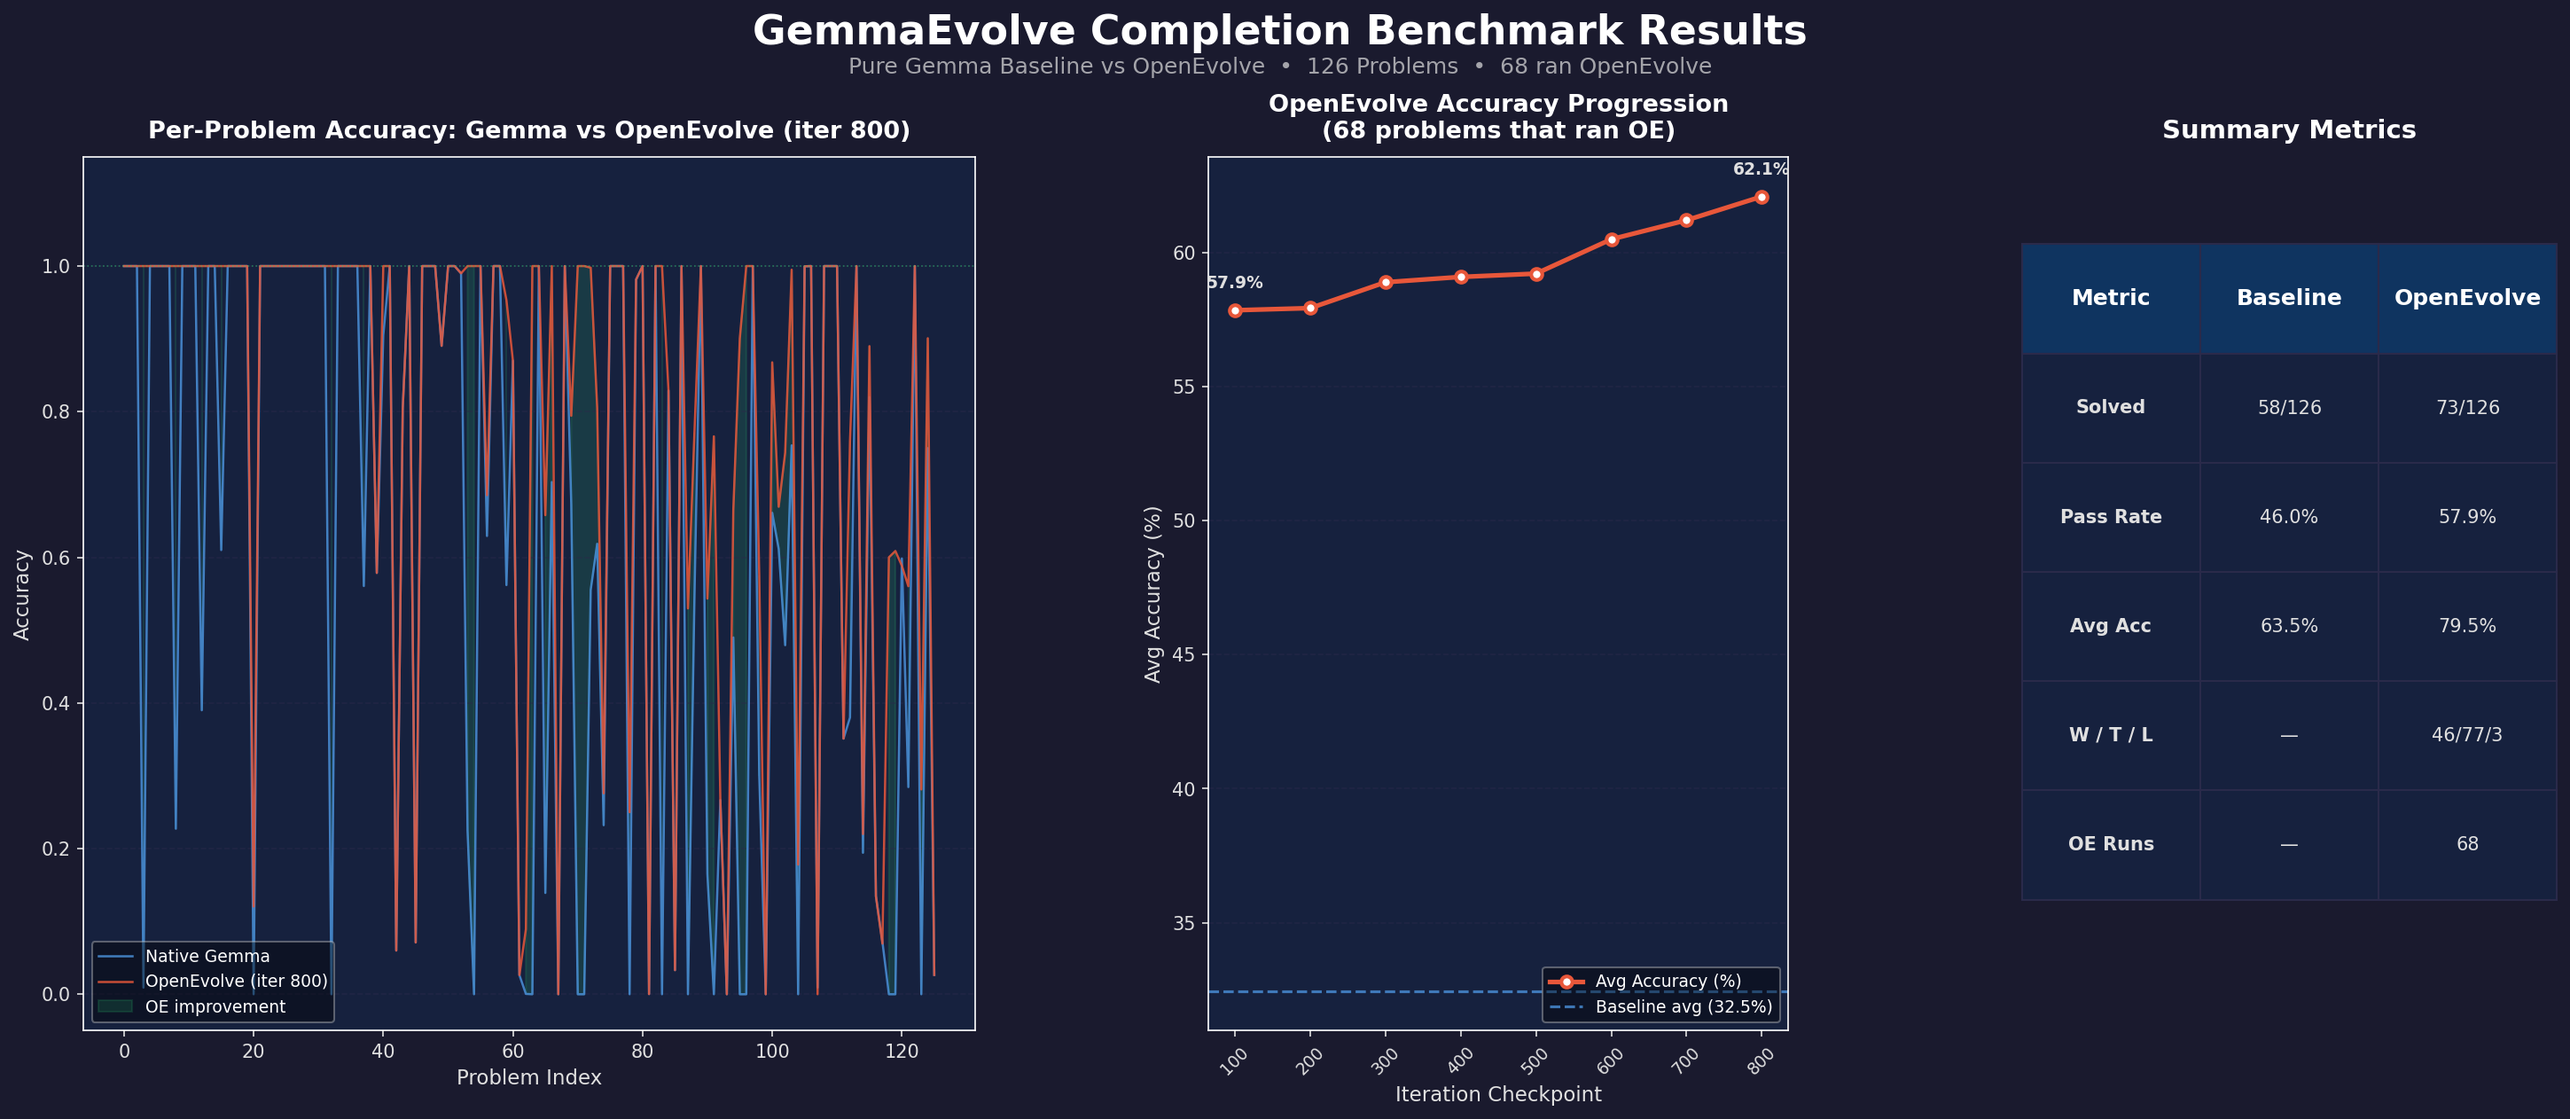
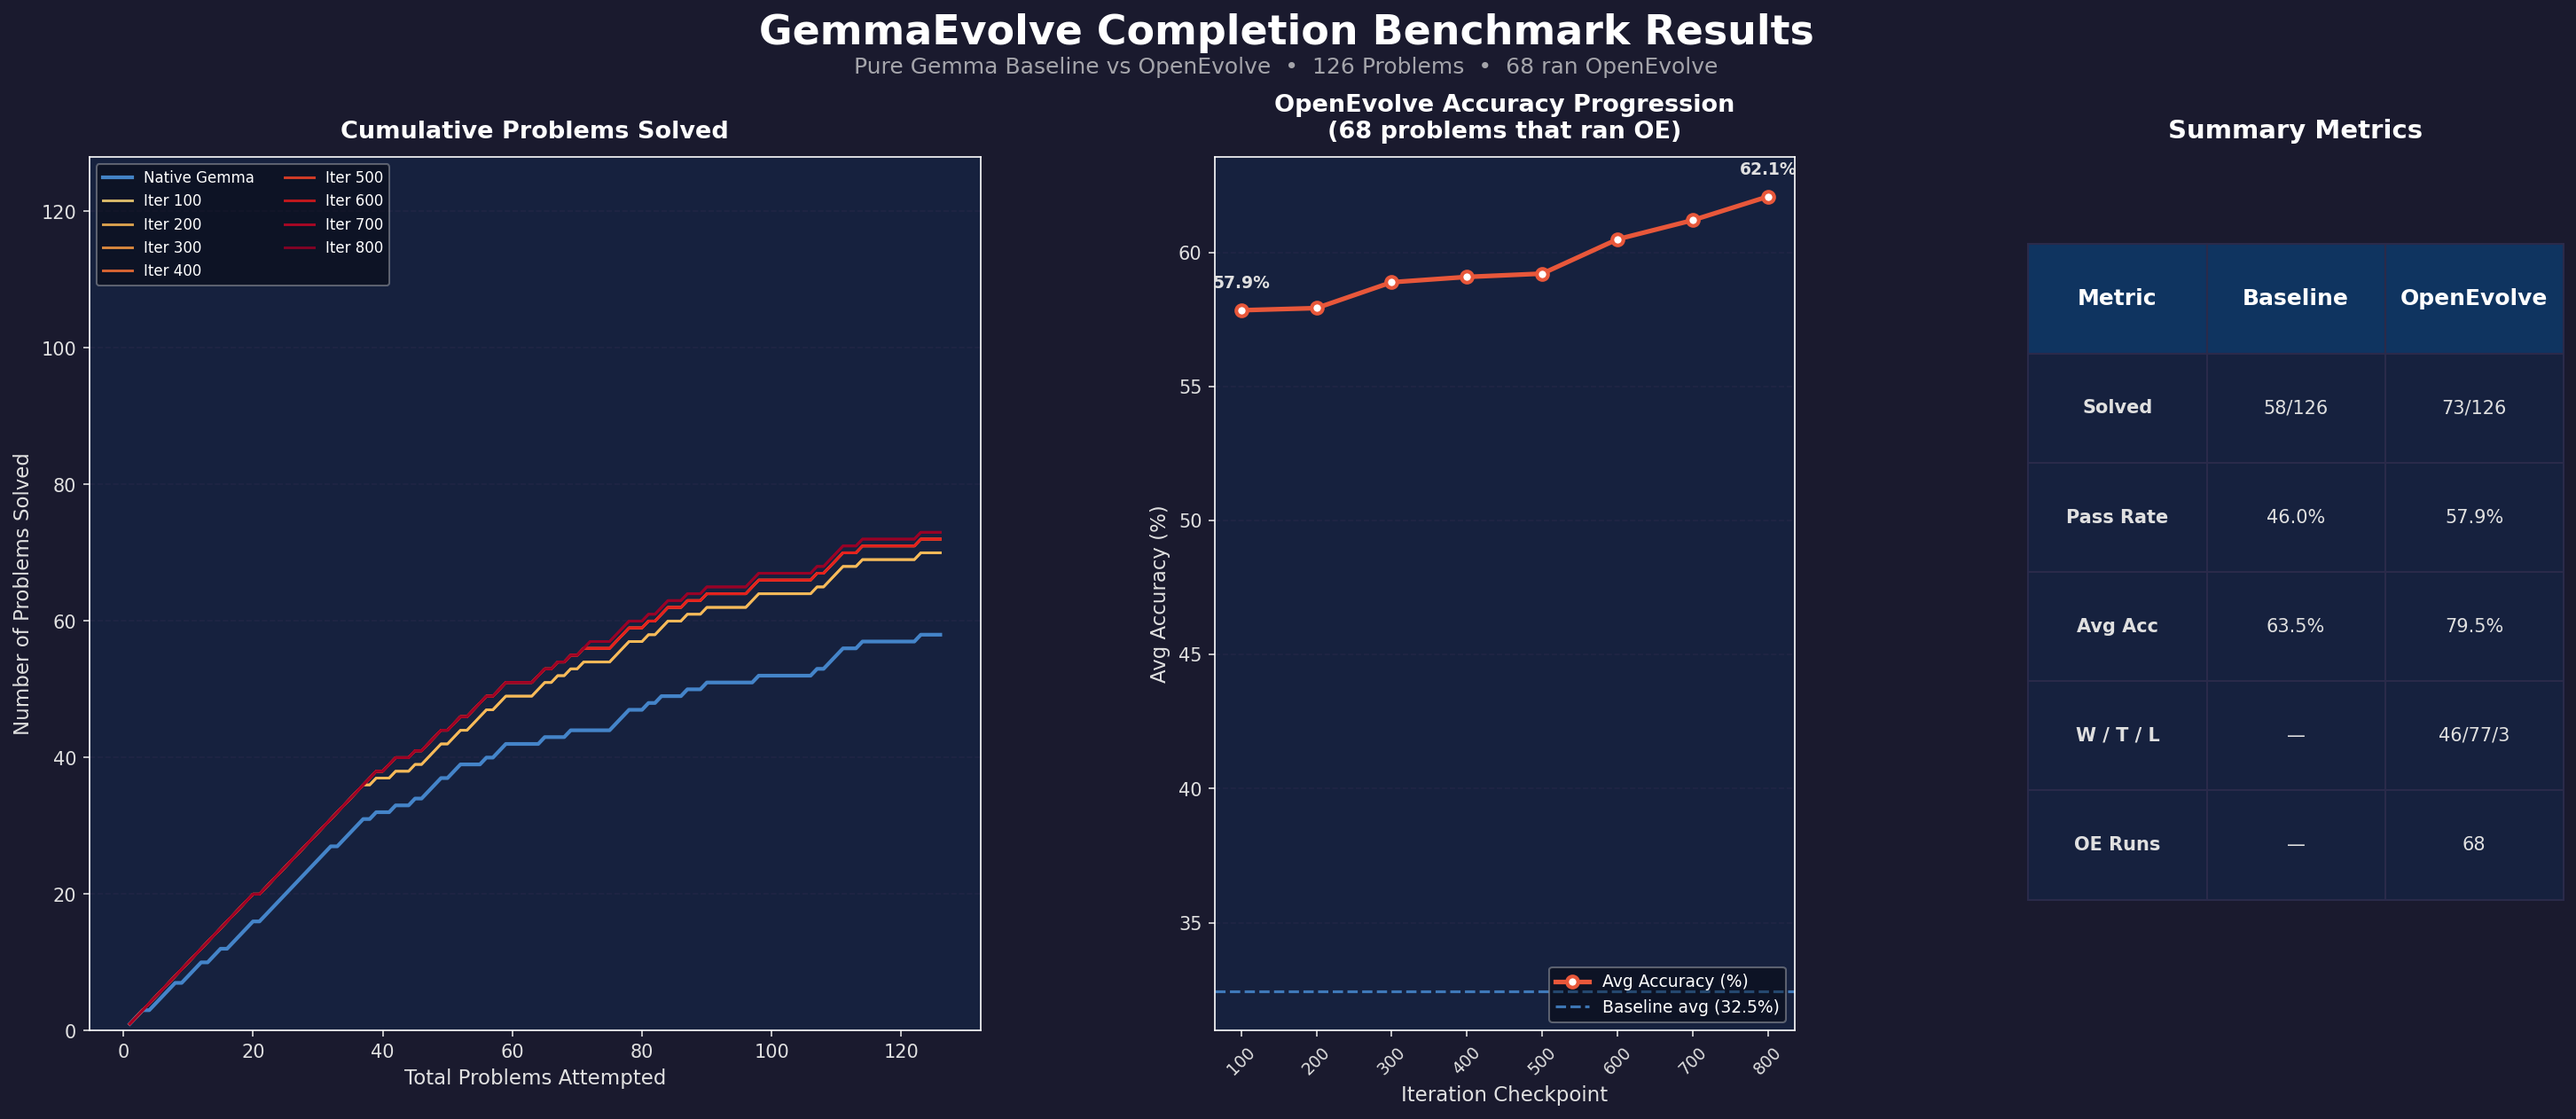
Refined chart clarity

diff --git a/completion_benchmark_results_chart.py b/completion_benchmark_results_chart.py
@@ -102,27 +102,38 @@ def main():
                            hspace=0.3, wspace=0.35,
                            left=0.05, right=0.98, top=0.85, bottom=0.12)
 
-    # ===== Panel 1: Line chart – Gemma vs iter_800 per problem =====
+    # ===== Panel 1: Cumulative problems solved =====
     ax1 = fig.add_subplot(gs[0, 0])
     ax1.set_facecolor(COLOR_PANEL)
 
-    x = np.arange(n)
-    ax1.plot(x, b_acc, color=COLOR_BASELINE, linewidth=1.2, alpha=0.85, label='Native Gemma')
-    ax1.plot(x, e800_acc, color=COLOR_EVOLVE, linewidth=1.2, alpha=0.85, label='OpenEvolve (iter 800)')
+    x = np.arange(1, n + 1)  # 1-indexed: total problems attempted
 
-    # Fill area where OpenEvolve beats baseline
-    b_arr = np.array(b_acc)
-    e_arr = np.array(e800_acc)
-    ax1.fill_between(x, b_arr, e_arr, where=(e_arr > b_arr),
-                     color=COLOR_WIN, alpha=0.15, label='OE improvement')
+    # Build cumulative solved for each model line
+    # Native Gemma
+    gemma_cum = np.cumsum([1 if a >= 1.0 else 0 for a in b_acc])
+    ax1.plot(x, gemma_cum, color=COLOR_BASELINE, linewidth=2.0, alpha=0.9, label='Native Gemma')
 
-    ax1.set_xlabel("Problem Index", fontsize=11, color=COLOR_TEXT)
-    ax1.set_ylabel("Accuracy", fontsize=11, color=COLOR_TEXT)
-    ax1.set_title("Per-Problem Accuracy: Gemma vs OpenEvolve (iter 800)",
+    # OpenEvolve iterations (iter_100 through iter_800)
+    iter_cmap = plt.cm.YlOrRd(np.linspace(0.25, 0.95, len(ITER_KEYS)))
+    for idx, key in enumerate(ITER_KEYS):
+        iter_acc = []
+        for d in data:
+            oe = d.get("openevolve")
+            if oe == "skipped" or oe is None:
+                # If openevolve didn't run, use baseline accuracy for this problem
+                iter_acc.append(d["baseline"]["accuracy"])
+            else:
+                iter_acc.append(oe[key]["accuracy"])
+        cum_solved = np.cumsum([1 if a >= 1.0 else 0 for a in iter_acc])
+        label = key.replace("_", " ").title()
+        ax1.plot(x, cum_solved, color=iter_cmap[idx], linewidth=1.4, alpha=0.85, label=label)
+
+    ax1.set_xlabel("Total Problems Attempted", fontsize=11, color=COLOR_TEXT)
+    ax1.set_ylabel("Number of Problems Solved", fontsize=11, color=COLOR_TEXT)
+    ax1.set_title("Cumulative Problems Solved",
                   fontsize=13, fontweight='bold', color='white', pad=10)
-    ax1.set_ylim(-0.05, 1.15)
-    ax1.axhline(y=1.0, color=COLOR_WIN, linestyle=':', linewidth=0.8, alpha=0.5)
-    ax1.legend(fontsize=9, loc='lower left', framealpha=0.4)
+    ax1.set_ylim(0, n + 2)
+    ax1.legend(fontsize=8, loc='upper left', framealpha=0.4, ncol=2)
     ax1.grid(axis='y', color=COLOR_GRID, linestyle='--', alpha=0.5, zorder=0)
     ax1.tick_params(colors=COLOR_TEXT)
 
